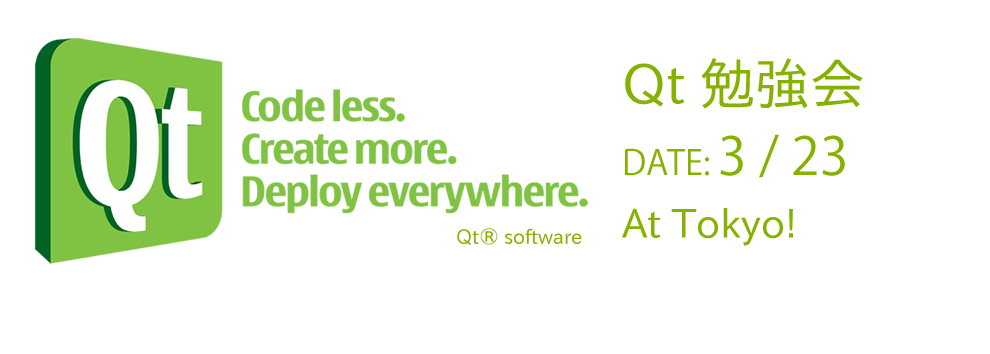
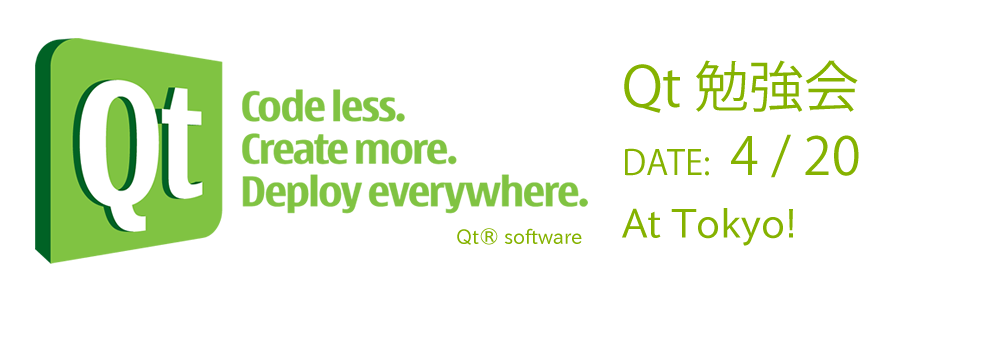
Update Workshop info

Changed region(s): [[0.6061, 0.1554, 0.8788, 0.3107], [0.7273, 0.3729, 0.8788, 0.4972]]

diff --git a/index.html b/index.html
@@ -88,6 +88,13 @@ alt="関東Qt勉強会 12月15日開催"  />
     </p>
     </article>
     <article>
+    <h2>新着情報</h2>
+        <p class="aList">
+    2013年4月 20日
+    <a href="http://workshop.qt-users.jp/?p=54">関東Qt勉強会 #14 #qtjp</a>
+    </p>
+    </article>
+    <article>
     <h2>リリース情報</h2>
     <p class="aList">
     2013年3月21日
@@ -122,6 +129,10 @@ Visual Studio Add-In 1.2.0 for Qt 5リリース</a>
     </article>
     <article>
     <h2>EVENT</h2>
+    <p class="aList">
+    2013年4月 20日
+    <a href="http://workshop.qt-users.jp/?p=54">関東Qt勉強会 #14 #qtjp</a>
+    </p>
     <p class="aList">
     2013年3月 23日
     <a href="http://workshop.qt-users.jp/?p=47">関東Qt勉強会 #13 #qtjp</a>
